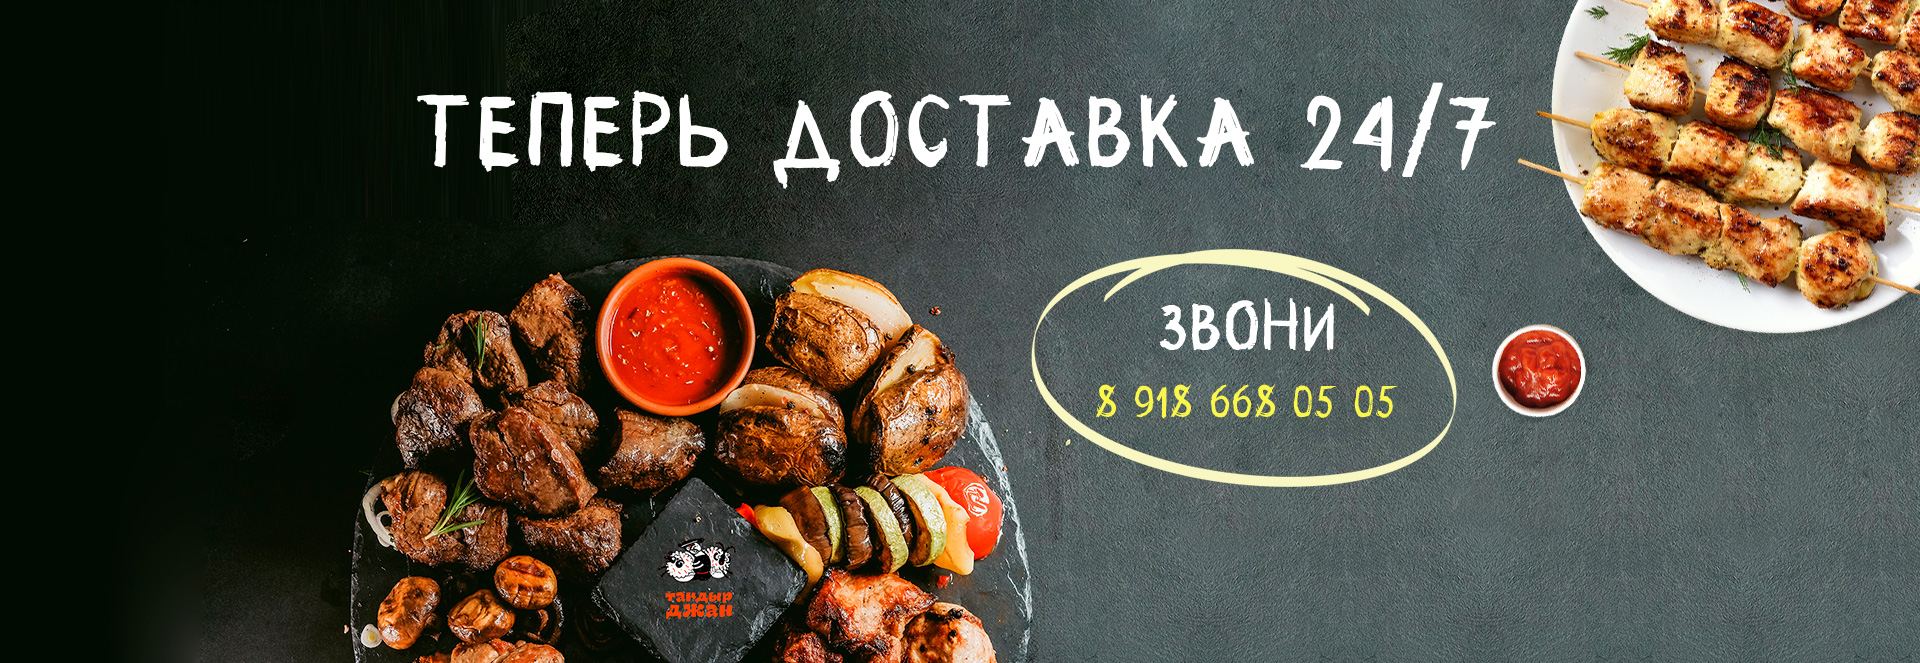
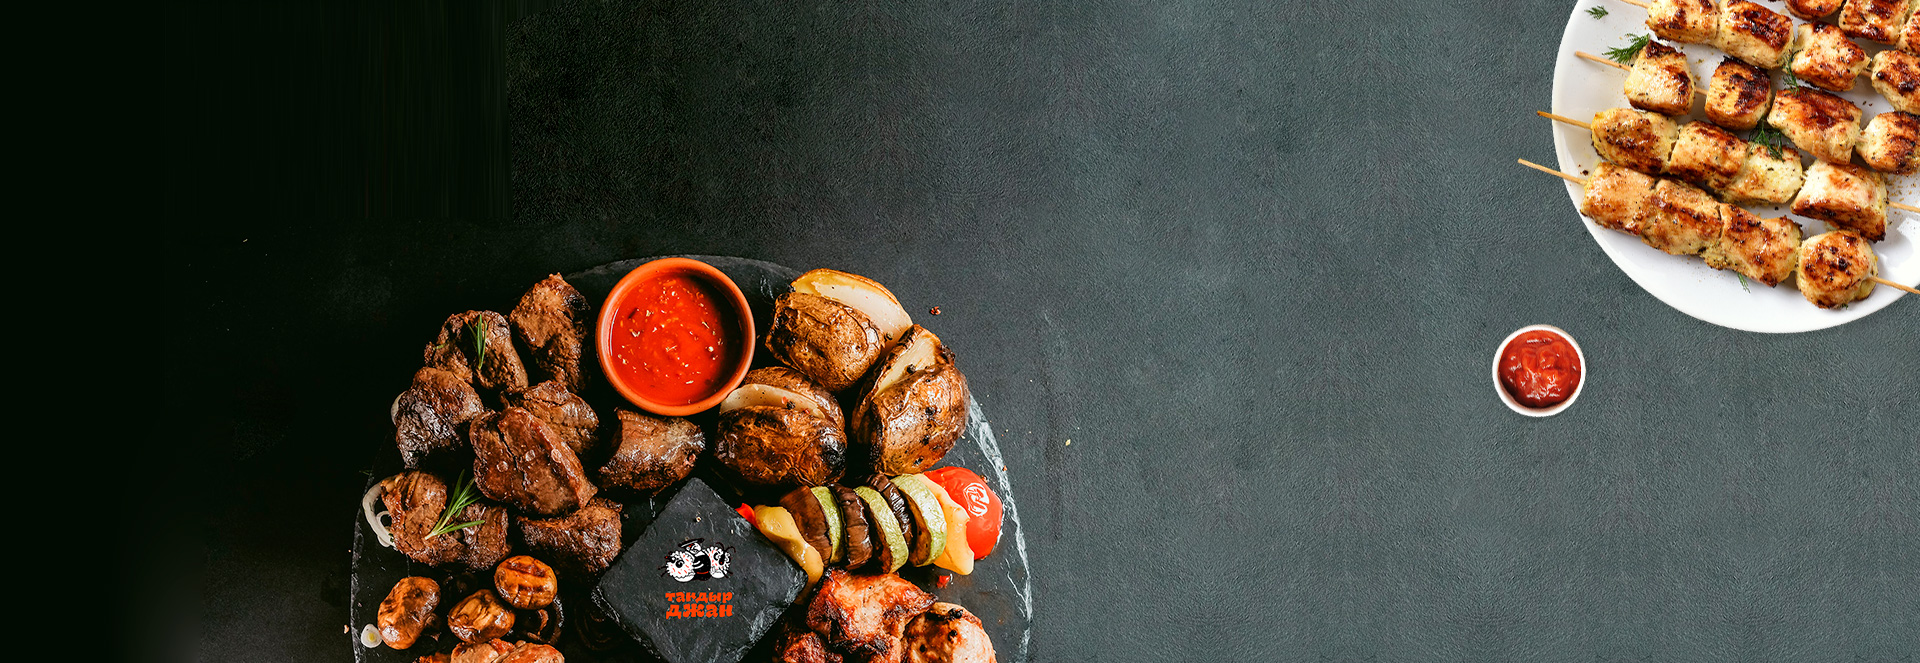
Обновление

diff --git a/tyndyrnaya/css/style.scss b/tyndyrnaya/css/style.scss
@@ -160,22 +160,24 @@ header {
               margin-top: 46px;
               margin-bottom: 58px;
             }
-            .btn {
-              border-radius: 3px;
-              background-color: #ff3d02;
-              width: 150px;
-              padding: 10px 10px;
+            a {
+              .btn {
+                border-radius: 3px;
+                background-color: #ff3d02;
+                width: 150px;
+                padding: 10px 10px;
 
-              font-size: 14px;
-              font-family: "Gilroy";
-              color: white;
-              line-height: .0;
-              display: flex;
-              text-transform: uppercase;
-              align-items: center;
-              &:before {
-                content: url(../img/btn-menu.png);
-                padding-right: 10px;
+                font-size: 14px;
+                font-family: "Gilroy";
+                color: white;
+                line-height: .0;
+                display: flex;
+                text-transform: uppercase;
+                align-items: center;
+                &:before {
+                  content: url(../img/btn-menu.png);
+                  padding-right: 10px;
+                }
               }
             }
           }
@@ -186,6 +188,38 @@ header {
         background-position: center center;
         background-repeat: no-repeat;
         height: 663px;
+        .container {
+
+          .slide_item__header {
+            font-size: 111px;
+            font-family: "DrumRegular";
+            color: rgb(255, 255, 255);
+            text-transform: uppercase;
+            text-align: center;
+            padding-top: 34px;
+          }
+          .slide_item__text {
+            background-image: url(../img/line.png);
+            background-position: center center;
+            background-repeat: no-repeat;
+            height: 238px;
+            width: 434px;
+            float: right;
+            text-align: center;
+            margin: 55px 152px;
+            .call {
+              font-size: 73px;
+              font-family: "DrumRegular";
+              color: rgb(255, 255, 255);
+              padding-top: 25px;
+            }
+            .tel {
+              font-size: 50px;
+              font-family: "DrumRegular";
+              color: #f9f65c;
+            }
+          }
+        }
       }
 
       .owl-nav {
@@ -294,8 +328,6 @@ header {
   }
 
 }
-
-
 @media all and (max-width: 1200px) {
   header {
     .container {
@@ -329,6 +361,34 @@ header {
         }
       }
     }
+    .slide-wrapper {
+      #owl-carousel1.owl-carousel.owl-theme {
+        .slide-item.slide1 {
+          .container {
+            .right-block {
+              .slide_item__header {
+                font-size: 77px;
+                span {}
+              }
+              .slide_item__text {}
+              a {
+                .btn {}
+              }
+            }
+          }
+        }
+        .slide-item.slide2 {
+          .container {
+            .slide_item__header {
+            }
+            .slide_item__text {
+              margin: 55px 80px;
+            }
+          }
+        }
+      }
+    }
+
   }
 }
 @media all and (max-width: 1100px) {
@@ -364,6 +424,36 @@ header {
         }
       }
     }
+    .slide-wrapper {
+      #owl-carousel1.owl-carousel.owl-theme {
+        .slide-item.slide1 {
+          .container {
+            .right-block {
+              .slide_item__header {
+                span {}
+              }
+              .slide_item__text {}
+              a {
+                .btn {}
+              }
+            }
+          }
+        }
+        .slide-item.slide2 {
+          .container {
+            .slide_item__header {
+              font-size: 9vw;
+            }
+            .slide_item__text {
+              a {
+                color: #f9f65c;
+              }
+            }
+          }
+        }
+      }
+    }
+
   }
 
 }
@@ -481,6 +571,42 @@ header {
         }
       }
     }
+    .slide-wrapper {
+      #owl-carousel1.owl-carousel.owl-theme {
+        .slide-item.slide1 {
+          height: 100%;
+          .container {
+            padding: 55px 10px 55px 10px;
+            .right-block {
+              width: 100%;
+              .slide_item__header {
+                font-size: 15vw;
+                span {
+                  font-size: 15vw;
+                }
+              }
+              .slide_item__text {
+
+              }
+              a {
+                .btn {}
+              }
+            }
+          }
+        }
+        .slide-item.slide2 {
+          .container {
+            .slide_item__header {}
+            .slide_item__text {
+              .call {}
+              .tel {}
+            }
+          }
+        }
+
+      }
+    }
+
   }
 
 }

diff --git a/tyndyrnaya/css/style.css b/tyndyrnaya/css/style.css
@@ -123,7 +123,7 @@ header .slide-wrapper #owl-carousel1.owl-carousel.owl-theme .slide-item.slide1 {
         color: white;
         margin-top: 46px;
         margin-bottom: 58px; }
-      header .slide-wrapper #owl-carousel1.owl-carousel.owl-theme .slide-item.slide1 .container .right-block .btn {
+      header .slide-wrapper #owl-carousel1.owl-carousel.owl-theme .slide-item.slide1 .container .right-block a .btn {
         border-radius: 3px;
         background-color: #ff3d02;
         width: 150px;
@@ -135,7 +135,7 @@ header .slide-wrapper #owl-carousel1.owl-carousel.owl-theme .slide-item.slide1 {
         display: flex;
         text-transform: uppercase;
         align-items: center; }
-        header .slide-wrapper #owl-carousel1.owl-carousel.owl-theme .slide-item.slide1 .container .right-block .btn:before {
+        header .slide-wrapper #owl-carousel1.owl-carousel.owl-theme .slide-item.slide1 .container .right-block a .btn:before {
           content: url(../img/btn-menu.png);
           padding-right: 10px; }
 header .slide-wrapper #owl-carousel1.owl-carousel.owl-theme .slide-item.slide2 {
@@ -143,6 +143,31 @@ header .slide-wrapper #owl-carousel1.owl-carousel.owl-theme .slide-item.slide2 {
   background-position: center center;
   background-repeat: no-repeat;
   height: 663px; }
+  header .slide-wrapper #owl-carousel1.owl-carousel.owl-theme .slide-item.slide2 .container .slide_item__header {
+    font-size: 111px;
+    font-family: "DrumRegular";
+    color: white;
+    text-transform: uppercase;
+    text-align: center;
+    padding-top: 34px; }
+  header .slide-wrapper #owl-carousel1.owl-carousel.owl-theme .slide-item.slide2 .container .slide_item__text {
+    background-image: url(../img/line.png);
+    background-position: center center;
+    background-repeat: no-repeat;
+    height: 238px;
+    width: 434px;
+    float: right;
+    text-align: center;
+    margin: 55px 152px; }
+    header .slide-wrapper #owl-carousel1.owl-carousel.owl-theme .slide-item.slide2 .container .slide_item__text .call {
+      font-size: 73px;
+      font-family: "DrumRegular";
+      color: white;
+      padding-top: 25px; }
+    header .slide-wrapper #owl-carousel1.owl-carousel.owl-theme .slide-item.slide2 .container .slide_item__text .tel {
+      font-size: 50px;
+      font-family: "DrumRegular";
+      color: #f9f65c; }
 header .slide-wrapper #owl-carousel1.owl-carousel.owl-theme .owl-nav {
   margin-top: 0px; }
   header .slide-wrapper #owl-carousel1.owl-carousel.owl-theme .owl-nav button {
@@ -171,10 +196,18 @@ header .slide-wrapper #owl-carousel1.owl-carousel.owl-theme .owl-nav {
 /*======================================================*/
 @media all and (max-width: 1200px) {
   header .container .header nav.header-nav ul.nav-menu li.menu-item {
-    padding: 10px 20px; } }
+    padding: 10px 20px; }
+  header .slide-wrapper #owl-carousel1.owl-carousel.owl-theme .slide-item.slide1 .container .right-block .slide_item__header {
+    font-size: 77px; }
+  header .slide-wrapper #owl-carousel1.owl-carousel.owl-theme .slide-item.slide2 .container .slide_item__text {
+    margin: 55px 80px; } }
 @media all and (max-width: 1100px) {
   header .container .header nav.header-nav ul.nav-menu li.menu-item {
-    padding: 10px 15px; } }
+    padding: 10px 15px; }
+  header .slide-wrapper #owl-carousel1.owl-carousel.owl-theme .slide-item.slide2 .container .slide_item__header {
+    font-size: 9vw; }
+  header .slide-wrapper #owl-carousel1.owl-carousel.owl-theme .slide-item.slide2 .container .slide_item__text a {
+    color: #f9f65c; } }
 @media all and (max-width: 670px) {
   header .container .header {
     justify-content: left; }
@@ -249,7 +282,17 @@ header .slide-wrapper #owl-carousel1.owl-carousel.owl-theme .owl-nav {
       order: 5; }
     header .container .header .cart {
       order: 2;
-      padding-left: 20px; } }
+      padding-left: 20px; }
+  header .slide-wrapper #owl-carousel1.owl-carousel.owl-theme .slide-item.slide1 {
+    height: 100%; }
+    header .slide-wrapper #owl-carousel1.owl-carousel.owl-theme .slide-item.slide1 .container {
+      padding: 55px 10px 55px 10px; }
+      header .slide-wrapper #owl-carousel1.owl-carousel.owl-theme .slide-item.slide1 .container .right-block {
+        width: 100%; }
+        header .slide-wrapper #owl-carousel1.owl-carousel.owl-theme .slide-item.slide1 .container .right-block .slide_item__header {
+          font-size: 15vw; }
+          header .slide-wrapper #owl-carousel1.owl-carousel.owl-theme .slide-item.slide1 .container .right-block .slide_item__header span {
+            font-size: 15vw; } }
 @media all and (max-width: 320px) {
   header .container .header .cart {
     padding-left: 2px; } }

diff --git a/tyndyrnaya/index.html b/tyndyrnaya/index.html
@@ -86,8 +86,13 @@
             </div>
             <div class="slide-item slide2">
                 <div class="container">
-                    <div class="slide-item__header"></div>
-                    <div class="slide-item__text"></div>
+                    <div class="slide_item__header">
+                        Теперь доставка 24/7
+                    </div>
+                    <div class="slide_item__text">
+                        <div class="call">Звони</div>
+                        <div class="tel">8 918 668 05 05</div>
+                    </div>
                 </div>
             </div>
         </div>

diff --git a/tyndyrnaya/js/main_slider.min.js b/tyndyrnaya/js/main_slider.min.js
@@ -1,1 +1,1 @@
-$(document).ready(function(){$("#owl-carousel1").owlCarousel({loop:true,margin:0,items:1,dots:false,nav:true,autoplay:false,autoplayTimeout:6000,autoplayHoverPause:true})});
+$(document).ready(function(){$("#owl-carousel1").owlCarousel({loop:true,margin:0,items:1,dots:false,nav:true})});

diff --git a/tyndyrnaya/js/main_slider.js b/tyndyrnaya/js/main_slider.js
@@ -6,9 +6,7 @@ $(document).ready(function(){
             items: 1,
             dots: false,
             nav:true,
-            autoplay:false,
-            autoplayTimeout:6000,
-            autoplayHoverPause:true
+
         }
     );
 
